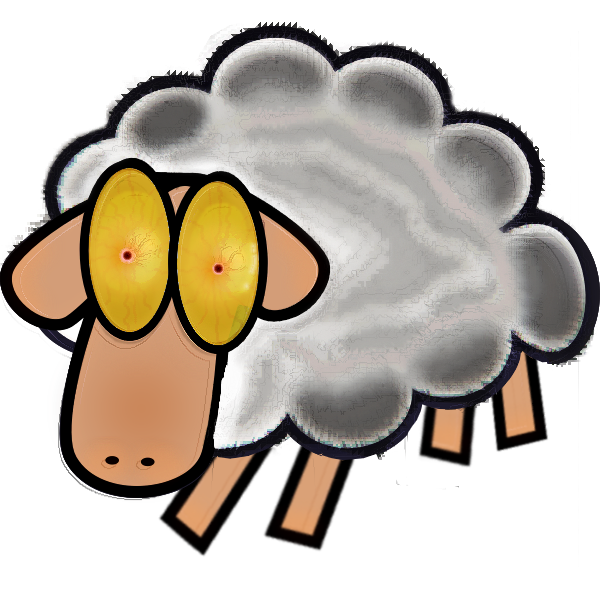
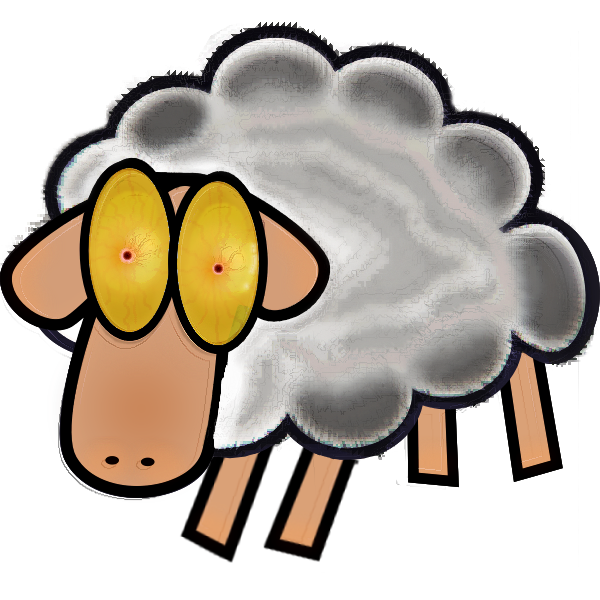
Display Running Sheep Sprite

Changed region(s): [[0.27, 0.75, 0.6, 0.96], [0.66, 0.57, 0.96, 0.81]]

diff --git a/src/scenes/home/home_scene.py b/src/scenes/home/home_scene.py
@@ -3,6 +3,7 @@ from typing import Optional, Callable
 
 from turns.day_turner import Days
 from .counting_sheep import CountingSheep
+from .sheep_sprite import sheep_sprites
 from scenes.scene_manager import GameScenes
 from utils.pygame_loads import load_image
 from utils.declared_buttons import SLEEP, EXIT_SCENE
@@ -10,27 +11,35 @@ from backgrounds import HOME_DAYLIGHT_IMG, HOME_NIGHT_IMG
 
 turn: Days = Days()
 
+current_frame = 0
+frame_counter = 0
+animation_speed = 5
+
 
 def render_home(
     display_surface: pygame.Surface,
     mouse_event: pygame.event.Event,
     trigger_update: Optional[Callable] = None,
+    frame: int = 0,
 ):
-
-    # if CountingSheep.grow_dark:
-    # raise NotImplementedError("You need to implement the counting sheep minigame.")
+    global current_frame, frame_counter
 
     # Minigame happens here...
-
     display_surface.blit(load_image(HOME_DAYLIGHT_IMG), (0, 0))
+
+    # Sheep animation loop
+    frame_counter += 1
+    if frame_counter >= animation_speed:
+        # Cycle through frames
+        current_frame = (current_frame + 1) % len(sheep_sprites)
+        frame_counter = 0
+
+    sheep_position = (300, 200)
+    display_surface.blit(sheep_sprites[current_frame], sheep_position)
 
     # Change background image to night
     SLEEP.draw_screen(display_surface)
     if SLEEP.update_scene(mouse_event, trigger_update):
-        # Need to implement the counting sheep minigame
-        # to after, end the day
-
-        # CountingSheep.grow_dark = True  # minigame begins
 
         # After end of minigame, end the day
         GameScenes.in_town, GameScenes.in_home = True, False  # Go to town

diff --git a/src/scenes/tavern/render_minigame.py b/src/scenes/tavern/render_minigame.py
@@ -6,8 +6,8 @@ from utils.declared_buttons import DICE_CUP
 from backgrounds import DICE_TABLE
 
 
-die1: Die = Die()
-die2: Die = Die()
+first_die: Die = Die()
+second_die: Die = Die()
 
 
 def roll_dice(display_surface, mouse_event, trigger_update=None) -> pygame.Surface:
@@ -16,16 +16,16 @@ def roll_dice(display_surface, mouse_event, trigger_update=None) -> pygame.Surfa
         display_surface.blit(load_image(DICE_TABLE), (97, 50))
         DICE_CUP.draw_screen(display_surface)
         if DICE_CUP.update_scene(mouse_event, trigger_update):
-            dice_path1 = die1.get_face()
-            dice_path2 = die2.get_face()
+            first_path = first_die.get_face()
+            second_path = second_die.get_face()
 
             Die.dice_path = [
-                load_image(dice_path1),
-                load_image(dice_path2),
+                load_image(first_path),
+                load_image(second_path),
             ]
 
             # Show the result for both dice
-            print(f"You rolled a {die1.face} and a {die2.face}!")
+            print(f"You rolled a {first_die.face} and a {second_die.face}!")
 
             Die.dice_rolled = True
 

diff --git a/src/scenes/home/sheep_sprite.py b/src/scenes/home/sheep_sprite.py
@@ -1,0 +1,34 @@
+import pygame
+
+from utils.pygame_loads import load_image
+
+
+# Helper function to load sprite frames
+def get_sheep_frames(spritesheet_path: str, frame_width: int, frame_height: int):
+    sprite_sheet = load_image(spritesheet_path)
+    sheet_width, sheet_height = sprite_sheet.get_size()
+    sprites = []
+
+    # Extract individual frames from the sprite sheet
+    for y in range(0, sheet_height, frame_height):
+        for x in range(0, sheet_width, frame_width):
+            frame = sprite_sheet.subsurface(
+                pygame.Rect(x, y, frame_width, frame_height)
+            )
+            sprites.append(frame)
+
+    return sprites
+
+
+sheep_sprites = get_sheep_frames(
+    "D:\Projects\Python-studies\shop_shop_manager\images\characters\sheep\sheep_spritesheet.png",
+    200,
+    200,
+)
+
+# Specify the index of the frame to be excluded from the loop
+exclude_frame = 2  # Change this to the correct index
+jumping_sheep = sheep_sprites[exclude_frame]
+
+# Remove the excluded frame from the animation list
+sheep_sprites = [frame for i, frame in enumerate(sheep_sprites) if i != exclude_frame]

diff --git a/src/scenes/__init__.py b/src/scenes/__init__.py
@@ -2,6 +2,7 @@ from .scene_manager import GameScenes
 from .shop.shop_scene import render_shop
 from .shop.display_customer import display_customer
 from .home.home_scene import render_home
+from .home.sheep_sprite import sheep_sprites
 from .home.counting_sheep import CountingSheep
 from .market_board import render_table
 from .tavern.tavern_scene import render_tavern

diff --git a/src/main.py b/src/main.py
@@ -42,7 +42,7 @@ while running:
     # Updates the display
     pygame.display.flip()
 
-    # Limits FPS to 60
-    clock.tick(60)
+    # Limits FPS to 30
+    clock.tick(30)
 
 pygame.quit()

diff --git a/src/scenes/home/__init__.py b/src/scenes/home/__init__.py
@@ -1,2 +1,3 @@
 from .home_scene import render_home
+from .sheep_sprite import sheep_sprites
 from .counting_sheep import CountingSheep
